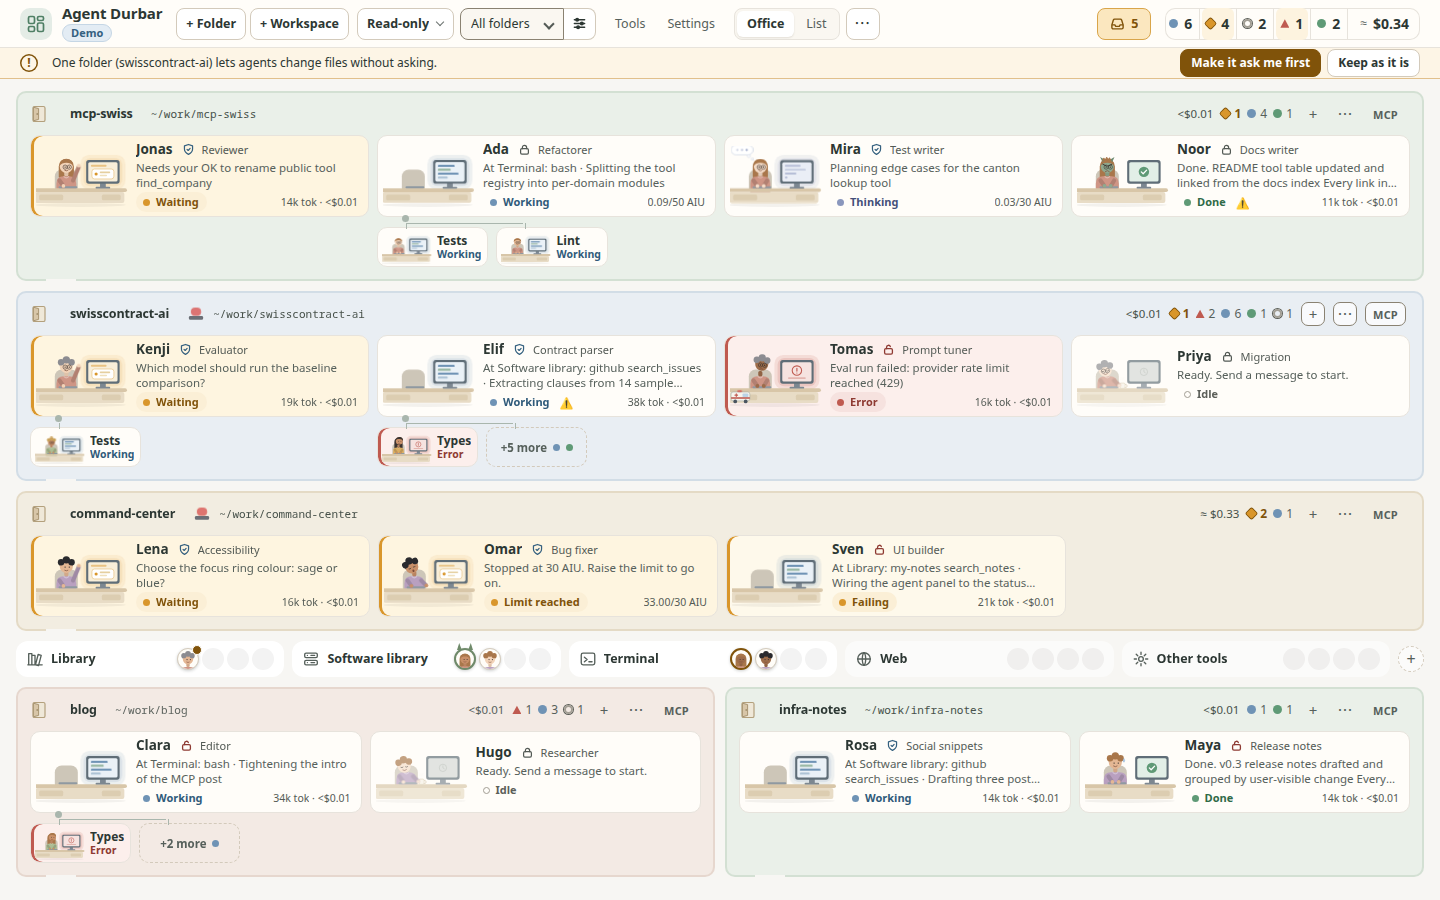
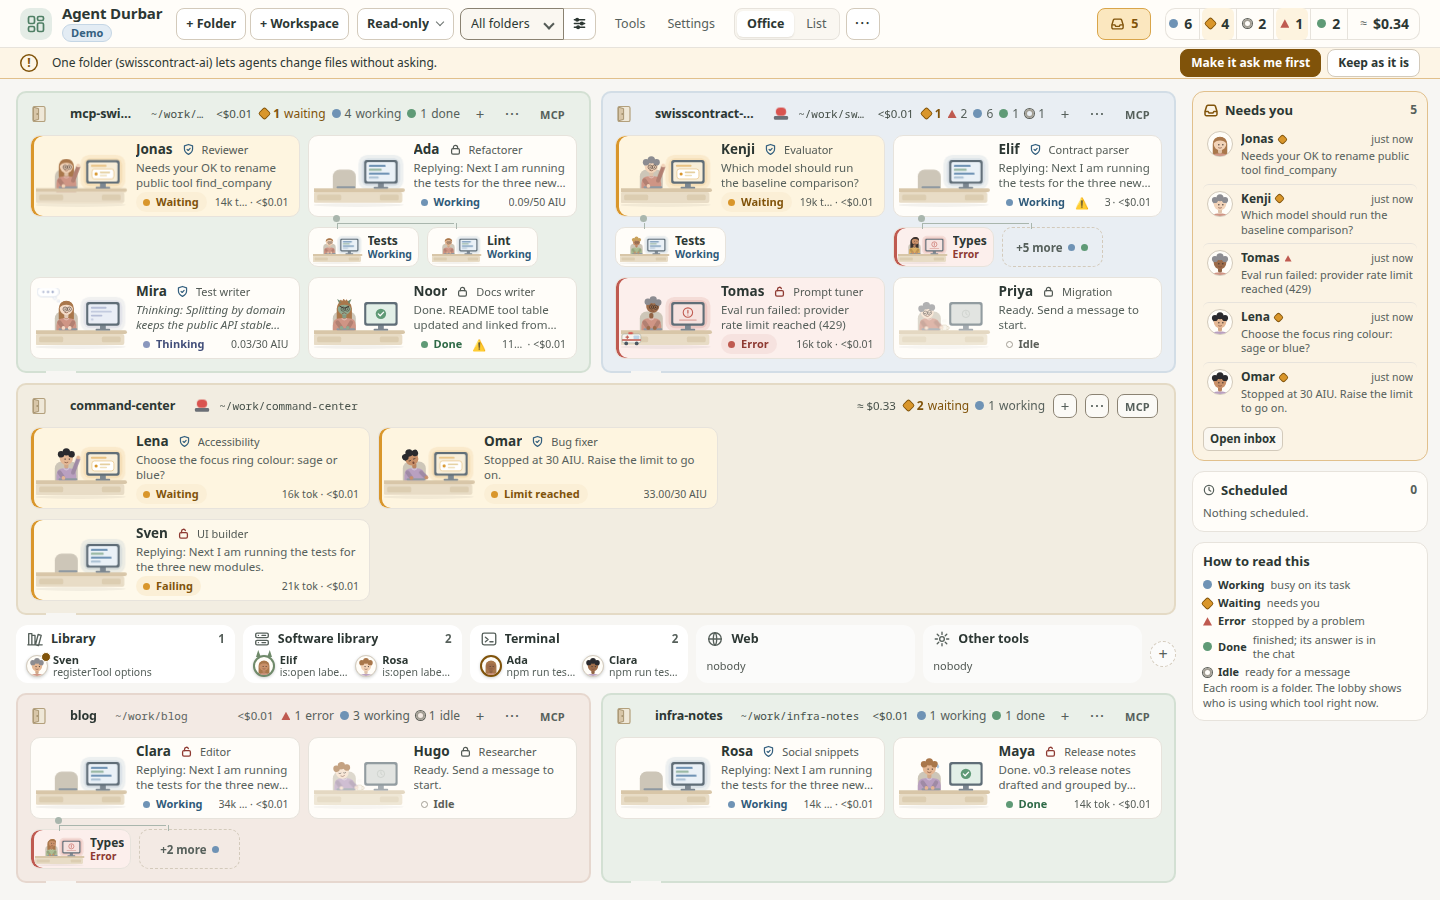
001 FR-038: screenshots, hero, results; liveact source checks follow the rail's layout key

diff --git a/scripts/test-liveact.ts b/scripts/test-liveact.ts
@@ -175,7 +175,7 @@ for (const st of ['idle', 'needs-permission', 'error', 'stopped']) {
   ok(/if\(!L\|\|!R\|\|typeof R\.redact!=='function'\)return null;/.test(app), 'no masking module: the feature stays off (fail closed)');
   ok(/\[\['full',3,'side'\],\['full',2,'side'\],\['full',3\],\['full',2\]/.test(app), 'side panel candidates first');
   ok(/if\(side&&!liveOn\(\)\)continue;/.test(app), 'setting off: never the side panel');
-  ok(/const key=JSON\.stringify\(\[aw,ah,FORCE_DENSITY,liveOn\(\),/.test(app), 'layout key follows the setting');
+  ok(/const key=JSON\.stringify\(\[both,ah,FORCE_DENSITY,liveOn\(\),/.test(app), 'layout key follows the setting');
   const scr = fs.readFileSync(path.join(R, 'screens.js'), 'utf8');
   ok(scr.includes('id="liveActSw"') && scr.includes('Live activity on desks'), 'Settings switch');
 }

diff --git a/src/renderer/app.js b/src/renderer/app.js
@@ -566,7 +566,7 @@ const CANDIDATES=[['full',3,'side'],['full',2,'side'],['full',3],['full',2],['ro
    Painted by textContent at most 4 times a second, never by a re-layout. ---- */
 let LIVE_SIDE=false; const SIDE_W=196, SIDE_GAP=8;
 let LIVE_PREF=(()=>{try{return localStorage.getItem('durbar.liveActivity')!=='off';}catch(e){return true;}})();
-const LIVE_MASK=(()=>{const R=window.DurbarRedact;if(!window.DurbarLiveAct||!R||typeof R.redact!=='function')return null;
+const LIVE_MASK=(()=>{const L=window.DurbarLiveAct,R=window.DurbarRedact;if(!L||!R||typeof R.redact!=='function')return null;
   return {redact:t=>R.redact(t),cmd:t=>R.maskSecretCommand(t),url:t=>R.maskSecretUrl(t)};})();
 const LIVEACT=LIVE_MASK?window.DurbarLiveAct.create({mask:LIVE_MASK}):null;
 const liveOn=()=>!!LIVEACT&&LIVE_PREF;

diff --git a/specs/001-office-view-and-densities/spec.md b/specs/001-office-view-and-densities/spec.md
@@ -260,4 +260,5 @@ Spec [024](../024-office-places/spec.md) adds a one-row **lobby** band between t
 - **FR-036** `[IMPLEMENTED]` **Who is at a place (lobby).** Each place tile shows its name, the number of agents there (when any) and, under the name, one entry per visitor: the figure (the walking figure stands on it, as before), the agent's **name** (cut with an ellipsis) and under it **what it does there**: its tool call in the live readout's words without the verb (`npm test`, `gh pr list`, `github list_pull_requests`; built by `DurbarLiveAct.phrase` with the same masking as FR-031, and only when that masking is loaded: fail closed), else the tool or MCP server name of the visit (`VISITS`), and in Simple the plain place words (`Running a command`, spec 024 FR-037; never a command). The full name, the folder and the activity are in the entry's tooltip and in the tile's accessible name. A tile with nobody says "nobody" (muted). Rule for the entries (pure, `tileChips` and `chipsFor` in `places.js`, from the tile's width like `tileSlots`; a named entry takes about 92 px, an initials entry 46 px): a tile shows **names** with the activity when every visitor there fits by name, or when at least two named entries fit (the last becomes +N); otherwise (many custom places, a narrow window, several visitors in a narrow tile) it shows the **initials** only (two letters) with the full name, folder and activity in the tooltip and accessible name. The desk's own text uses the same words ("At Terminal: npm test · …"). With more visitors than entries, the last entry is a **+N** button: its tooltip lists the names, and a click (or Enter) opens a small menu (the shared menu element) listing every visitor with folder and activity; choosing one opens its chat. The lobby is 58 px tall (was 36 px) whether or not anybody is there, so the layout does not change when agents come and go; the layout search measures it like any other part. The coffee corner of spec 068 (PR #462), when it lands, uses the same entries.
 - **FR-037** `[IMPLEMENTED]` **Room header summary in words.** The room header's status counts show their word when the header has room ("5 working", "1 waiting", "2 done"); where the header is too narrow, the words go first (the counts and dots stay, the words remain in the tooltip and the accessible name), and only then the folder path (measured like FR-024's name check, `fitUsage`).
 - **FR-038** `[IMPLEMENTED]` **Checks.** A simulator driver (`scripts/shots-001-rail.js`) asserts: the rail lists exactly the simulator's agents that need you (names in inbox order) and the seeded schedules; clicking a Needs you row opens that chat, a schedule row opens that folder's Schedules dialog, the strip buttons open the inbox and Settings; place entries show the visitor's name and activity, with no overlap or clipping between entries, tiles and figures; the +N menu lists every visitor; initials at 8 places; the room header words show; every text in the rail and the lobby is at least 10.5 px; the office page rules (`pageCheck`: overlap, clipping, no floor or page scroll) hold with the rail; at 1440x900 and 1280x800, 15 agents and a sparse office, Clean Office and Retro Pixel (no built-in theme has a dark surface; Retro is the one with a dark page), a narrow window (1100x800) for the strip and eight places for initials. `check:office` (`pageCheck`) gained the rail rules (beside the floor, inside the window, no scroll, rows inside it, text at least 10.5 px) and the entry rules (no overlap, inside the tile, a name or initials not cut to nothing, a tooltip, "+N" names its visitors, the count equals the visitors); its lobby height rule is 58 px. `check:geometry` runs `pageCheck` in every theme.
+- *Result (2026-10-22, Linux, Xvfb):* `sim:` `scripts/shots-001-rail.js` passes (1440x900 and 1280x800, 15 and 3 agents, Clean Office and Retro; 1100x800 strip; eight places), `test:` `test:places`; `check:office` 368/368, `check:geometry` 60/60, `npm test` 81/81, `check:perf` pass (frame p95 16.8 ms), `shots-033` floor switch 125 ms (1440x900) and 151 ms (1280x800) of the app's own time. Screenshots `docs/screenshots/001-rail-*.png`; the README hero `m5-sim15-1440x900-closed.png` retaken. Not seen on a real session, a Mac or a Windows PC; the coffee corner (PR #462) is not merged, so its tile is not covered yet.
 - **Owner decisions** (Vikram, Telegram 2026-10-21 22:19 and 22:21 UTC): the office view follows the illustration: a rail with who waits and what is scheduled, place tiles that say who is there and what they do, room headers with a count summary. Decided here (stated, owner may change): the section is called **Needs you** (the inbox's name) rather than "Waiting on people"; the rail folds to a strip by the FR-035 fit rule rather than at a fixed width; the legend is open on the first view only.
